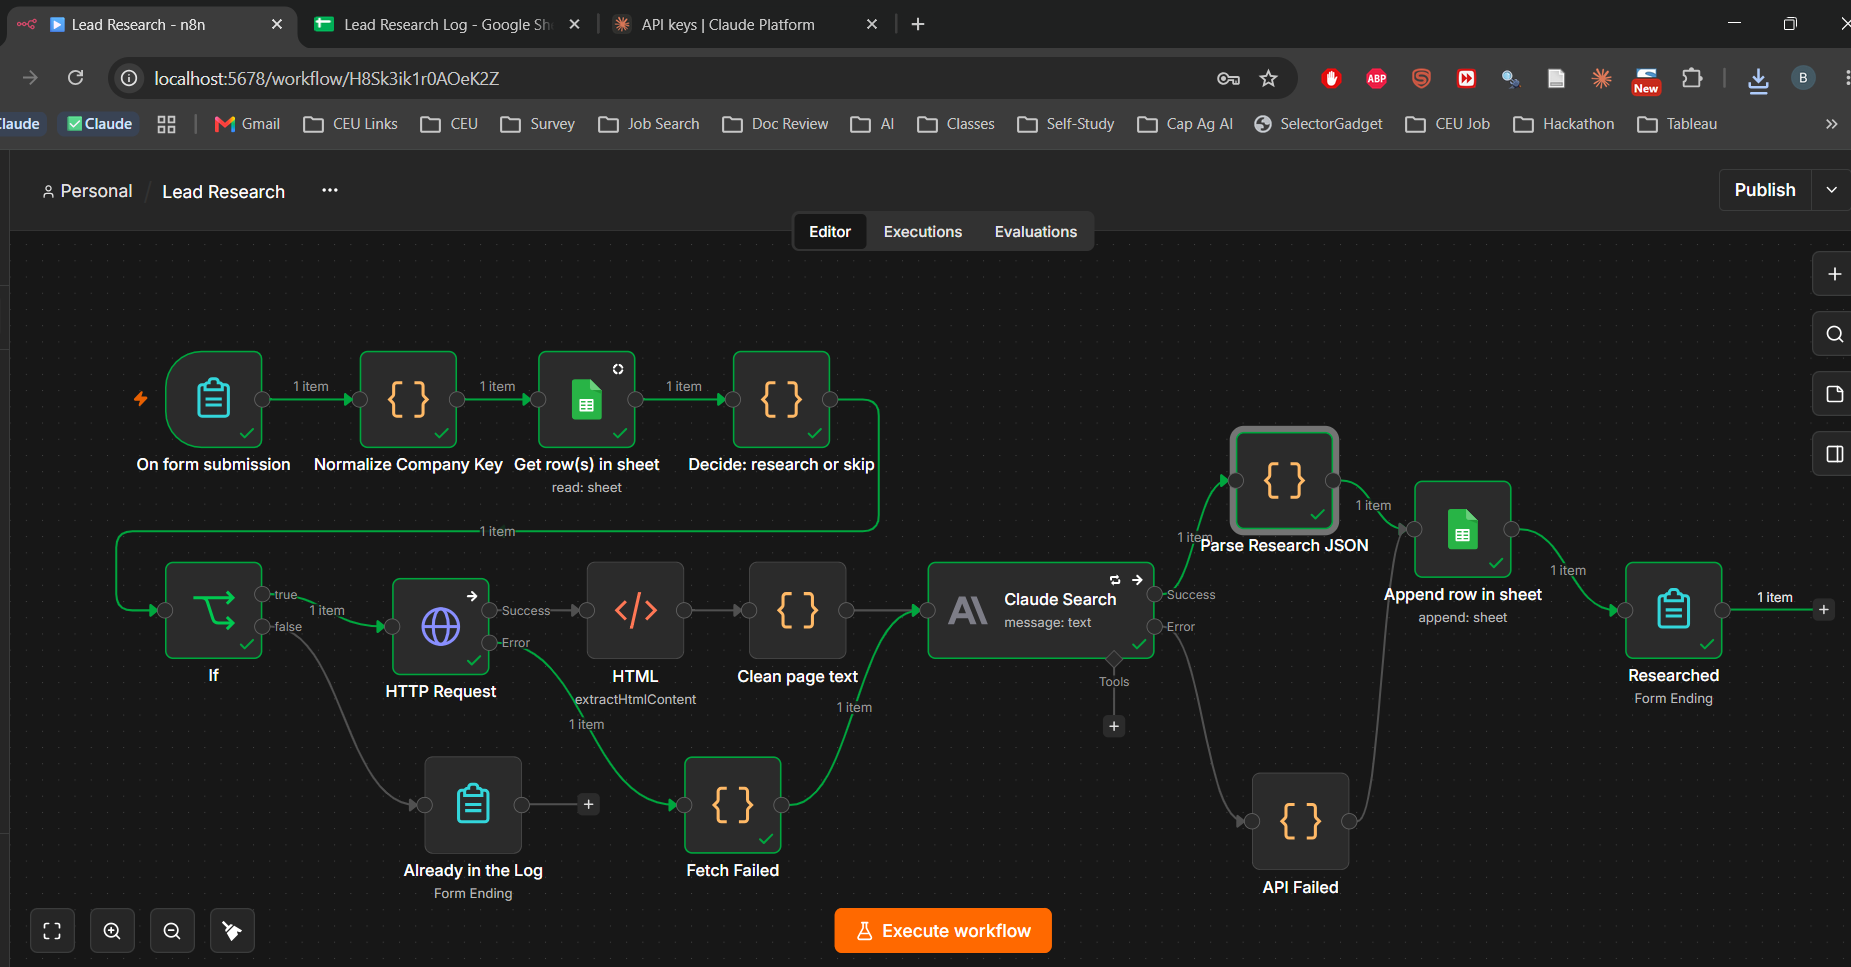
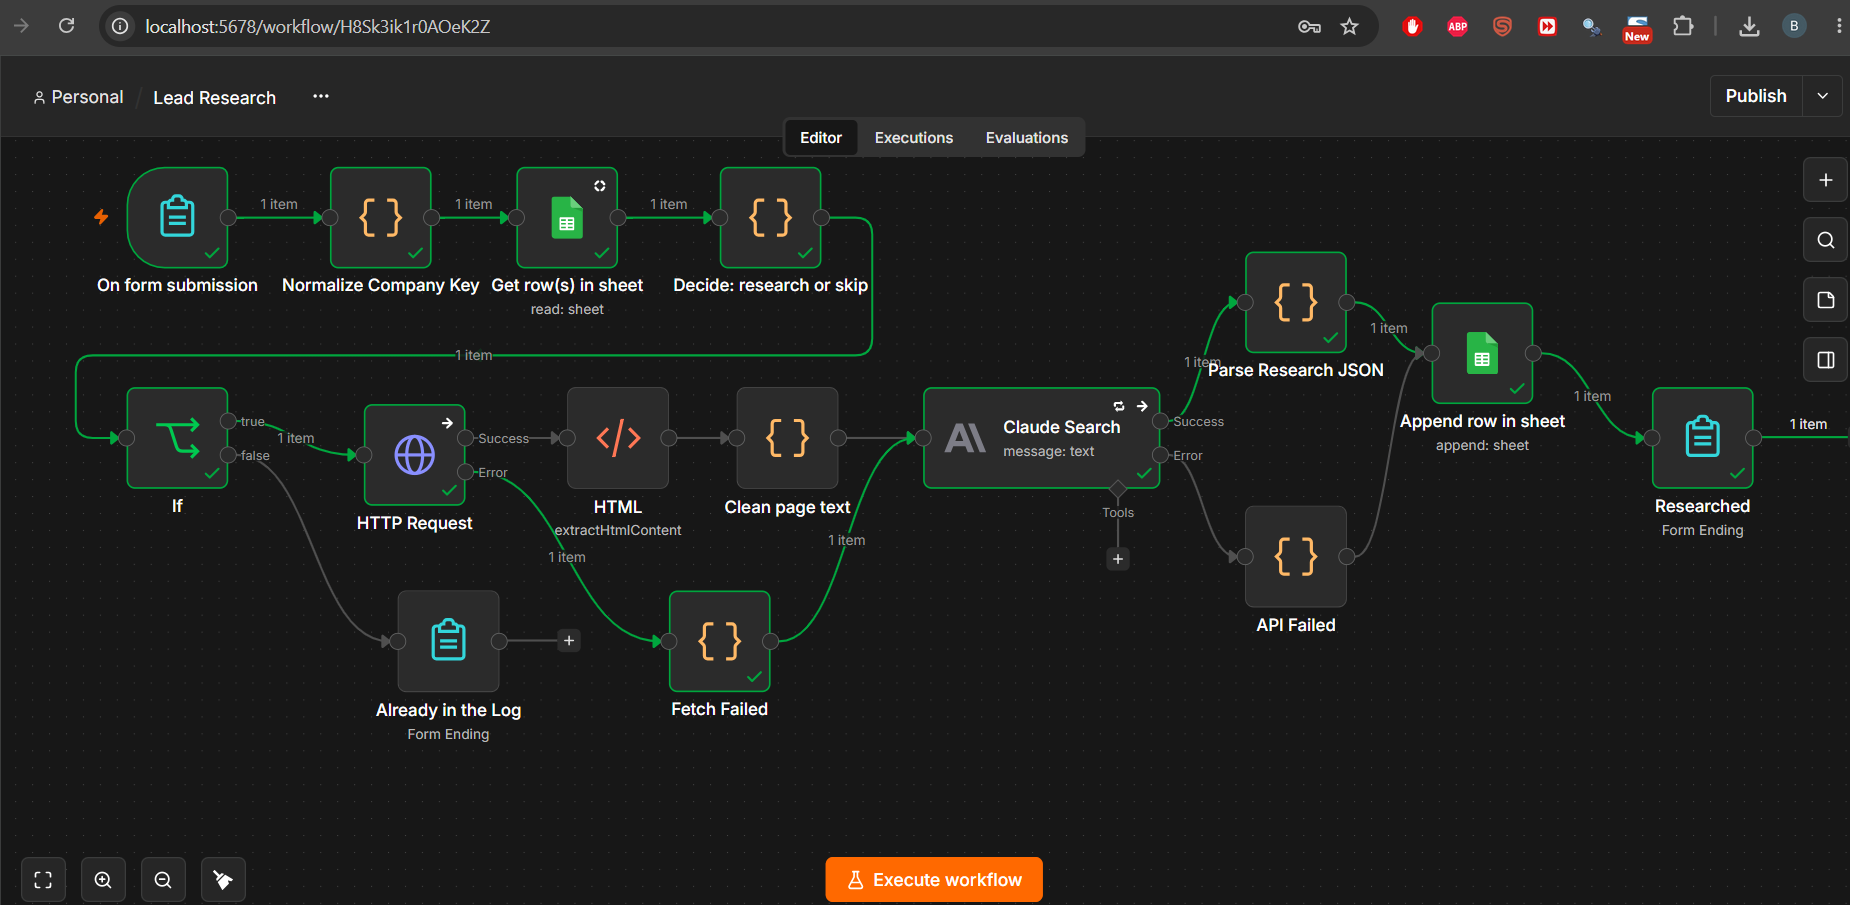
deleted duplicate column in CSV, updated README and canvas

diff --git a/README.md b/README.md
@@ -116,8 +116,6 @@ This project is not:
 
 A citation marker occasionally leaks from the model into a `research_notes` value. It is cosmetic and would be stripped in the parse step.
 
-The sample sheet has a duplicated `identity_source` column, left in as exported.
-
 ## Scope
 
 Deliberately excluded: no evaluation set, no agent framework, no hosting or tunnelling, no scheduled batch runs.
